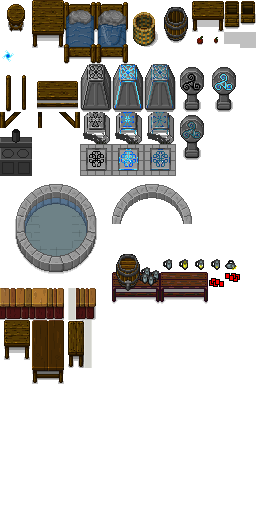
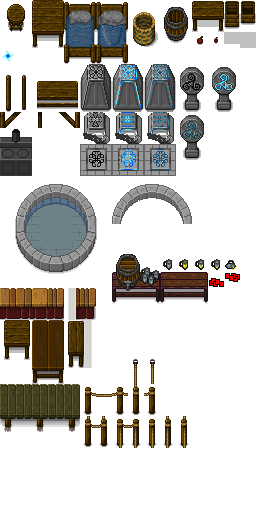
add basic pier

Changed region(s): [[0.0, 0.6875, 0.75, 0.875]]

diff --git a/js/worldGen.js b/js/worldGen.js
@@ -1504,4 +1504,71 @@ class WorldGen {
         },
     };
 
+    static pier = {
+        tag: "pier",
+        columns: 16,
+        rows: 16,
+        offx: 29,
+        offy: 40,
+        autoArea: true,
+        layers: {
+            l1: {
+                bgo: [
+                    "0000","002D","002D","002D","002D","0000","0000","0000","0000","0000","0000","0000","0000","0000","0000","0000",
+                    "0000","0010","0010","0010","0010","002D","002D","0000","0000","0000","0000","0000","0000","0000","0000","0000",
+                    "0000","0010","0010","0010","0010","0010","0010","002D","002D","002D","0000","0000","0000","0000","0000","0000",
+                    "0000","0010","0010","0010","0010","0010","0010","0010","0010","0010","002D","002D","0000","0000","0000","0000",
+                    "0000","0010","0010","0010","0010","0010","0010","0010","0010","0010","0010","0010","0000","0000","0000","0000",
+                    "0000","0010","0010","0010","0010","0010","0010","0010","0010","0010","0010","0010","0000","0000","0000","0000",
+                    "0000","0010","0010","0010","0010","0010","0010","0010","0010","0010","0010","0010","0000","0000","0000","0000",
+                    "0000","0010","0010","0010","0010","0010","0010","0010","0010","0010","0010","0010","0000","0000","0000","0000",
+                    "0000","0010","0010","0010","0010","0010","0010","0010","0010","0010","0010","0010","0000","0000","0000","0000",
+                    "0000","0010","0010","0010","0010","0010","0010","0010","0010","0010","0010","0010","0000","0000","0000","0000",
+                    "0000","0010","0010","0010","0000","0000","0000","0000","0000","0000","0000","0000","0000","0000","0000","0000",
+                    "0000","0010","0010","0010","002E","002F","002E","002F","002E","002G","002E","002H","0000","0000","0000","0000",
+                    "0000","0010","0010","0010","0000","0000","0000","0000","0000","0000","0000","0000","0000","0000","0000","0000",
+                    "0000","0010","0010","0010","0000","0000","0000","0000","0000","0000","0000","0000","0000","0000","0000","0000",
+                    "0000","0000","0000","0000","0000","0000","0000","0000","0000","0000","0000","0000","0000","0000","0000","0000",
+                    "0000","002F","002E","002H","0000","0000","0000","0000","0000","0000","0000","0000","0000","0000","0000","0000",
+                ],
+                fg: [
+                    "0000","0000","0000","0000","0000","0000","0000","0000","0000","0000","0000","0000","0000","0000","0000","0000",
+                    "0000","0000","0000","0000","0000","0000","0000","0000","0000","0000","0000","0000","0000","0000","0000","0000",
+                    "0000","002T","0000","0000","0X5a","0X5b","0X5b","0X5b","0X5b","0X5c","0000","0000","0000","0000","0000","0000",
+                    "0000","0000","0000","0000","0X5d","0X5e","0X5e","0X5e","0X5e","0X5f","0000","0000","0000","0000","0000","0000",
+                    "0000","002U","0000","0000","0X5g","0000","0000","0000","0000","0X5h","0000","002T","0000","0000","0000","0000",
+                    "0000","0000","0000","0000","0X5g","0000","0000","0000","0000","0X5h","0000","0000","0000","0000","0000","0000",
+                    "0000","002U","0000","0000","0o0q","0000","0000","0000","0000","0X5h","0000","002U","0000","0000","0000","0000",
+                    "0000","0000","0000","0000","0X5j","0X5b","0X5b","0X5b","0X5b","0X5i","0000","0000","0000","0000","0000","0000",
+                    "0000","002U","0000","0000","0X5m","0X5e","0X5e","0X5e","0X5e","0X5l","0000","002U","0000","0000","0000","0000",
+                    "0000","0000","0000","0000","002L","0000","002L","0000","002L","0000","002L","0000","0000","0000","0000","0000",
+                    "0000","000G","0000","002R","0000","002M","0000","002M","0000","002M","0000","002Q","0000","0000","0000","0000",
+                    "0000","0000","0000","0000","0000","0000","0000","0000","0000","0000","0000","0000","0000","0000","0000","0000",
+                    "0000","002V","0000","002U","0000","0000","0000","0000","0000","0000","0000","0000","0000","0000","0000","0000",
+                    "0000","0000","002L","0000","0000","0000","0000","0000","0000","0000","0000","0000","0000","0000","0000","0000",
+                    "0000","002P","0000","002Q","0000","0000","0000","0000","0000","0000","0000","0000","0000","0000","0000","0000",
+                    "0000","0000","0000","0000","0000","0000","0000","0000","0000","0000","0000","0000","0000","0000","0000","0000",
+                ],
+                fgo: [
+                    "0000","0000","0000","0000","0000","0000","0000","0000","0000","0000","0000","0000","0000","0000","0000","0000",
+                    "0000","0000","0000","0000","0000","0000","0000","0000","0000","0000","0000","0000","0000","0000","0000","0000",
+                    "0000","0000","0000","0000","0000","0000","0000","0000","0000","0000","0000","0000","0000","0000","0000","0000",
+                    "0000","0000","0000","0000","0000","0000","0000","0000","0000","0000","0000","0000","0000","0000","0000","0000",
+                    "0000","0000","0000","0000","0000","0000","0000","0000","0000","0000","0000","0000","0000","0000","0000","0000",
+                    "0000","0000","0000","0000","0000","0000","0000","0000","0000","0000","0000","0000","0000","0000","0000","0000",
+                    "0000","0000","0000","0000","0000","0000","0000","0000","0000","0000","0000","0000","0000","0000","0000","0000",
+                    "0000","0000","0000","0000","0000","0000","0000","0000","0000","0000","0000","0000","0000","0000","0000","0000",
+                    "0000","0000","0000","0000","0000","0000","0000","0000","0000","0000","0000","0000","0000","0000","0000","0000",
+                    "0000","0000","0000","0000","0000","0000","0000","0000","0000","0000","0000","0000","0000","0000","0000","0000",
+                    "0000","002J","0000","0000","0000","0000","0000","0000","0000","0000","0000","0000","0000","0000","0000","0000",
+                    "0000","0000","0000","0000","0000","0000","0000","0000","0000","0000","0000","0000","0000","0000","0000","0000",
+                    "0000","0000","0000","0000","0000","0000","0000","0000","0000","0000","0000","0000","0000","0000","0000","0000",
+                    "0000","0000","0000","0000","0000","0000","0000","0000","0000","0000","0000","0000","0000","0000","0000","0000",
+                    "0000","0000","0000","0000","0000","0000","0000","0000","0000","0000","0000","0000","0000","0000","0000","0000",
+                    "0000","0000","0000","0000","0000","0000","0000","0000","0000","0000","0000","0000","0000","0000","0000","0000",
+                ],
+            },
+        },
+    };
+
 }

diff --git a/js/sparkAssets.js b/js/sparkAssets.js
@@ -353,6 +353,25 @@ class SparkAssets {
                 Templates.xsprite("bar.sidetable",      4, 20, { width: 16*2, height: 16*3 }),
                 Templates.xsprite("bar.beer.empty",     10, 16, { width: 16*1, height: 16*1 }),
                 Templates.xsprite("bar.beer.full",      11, 16, { width: 16*1, height: 16*1 }),
+                Templates.xvarsprite("dock.t",          [[0,24], [1,24], [2,24], [3,24]]),
+                Templates.xvarsprite("dock.l",          [[1,25], [3,25]], {height: 32}),
+                Templates.xsprite("dock.post.l",        0, 25, { width: 16*1, height: 16*2 }),
+                Templates.xsprite("dock.post.m",        2, 25, { width: 16*1, height: 16*2 }),
+                Templates.xsprite("dock.post.r",        4, 25, { width: 16*1, height: 16*2 }),
+                Templates.xsprite("rope.l",             8, 22, { width: 16*1, height: 16*2 }),
+                Templates.xsprite("rope.r",             9, 22, { width: 16*1, height: 16*2 }),
+                Templates.xsprite("rail.r",             5, 24, { width: 16*1, height: 16*2 }),
+                Templates.xsprite("rope.m",             6, 24, { width: 16*1, height: 16*1 }),
+                Templates.xsprite("rail.lr",            7, 24, { width: 16*1, height: 16*2 }),
+                Templates.xsprite("rail.t",             8, 24, { width: 16*1, height: 16*2 }),
+                Templates.xsprite("rail.l",             9, 24, { width: 16*1, height: 16*2 }),
+                Templates.xsprite("rail.tr",            5, 26, { width: 16*1, height: 16*2 }),
+                Templates.xsprite("rail.tl",            6, 26, { width: 16*1, height: 16*2 }),
+                Templates.xsprite("rail.br",            7, 26, { width: 16*1, height: 16*2 }),
+                Templates.xsprite("rail.bl",            8, 26, { width: 16*1, height: 16*2 }),
+                Templates.xsprite("rail.b",             9, 26, { width: 16*1, height: 16*2 }),
+                Templates.xsprite("rail.tb.l",          10, 26, { width: 16*1, height: 16*2 }),
+                Templates.xsprite("rail.tb.r",          11, 26, { width: 16*1, height: 16*2 }),
             ]},
 
             { src: "img/tower.png", loader: "Sheet", refs: [
@@ -887,6 +906,26 @@ class SparkAssets {
             Templates.tile("02A", "bar.sidetable",      {offx: 8, offy: -16, xcollider: {width: 20, height: 40, offy:-4}}),
             // -- 02B taken
             Templates.tile("02C", "tower.stub",         {offx: 56, offy: -64, xcollider: {}}),
+
+            Templates.tile("02D", "dock.t"),
+            Templates.tile("02E", "dock.l",             {offy: -8}),
+            Templates.tile("02F", "dock.post.l",        {offy: -8}),
+            Templates.tile("02G", "dock.post.m",        {offy: -8}),
+            Templates.tile("02H", "dock.post.r",        {offy: -8}),
+            Templates.tile("02I", "rope.l",             {offy: -8}),
+            Templates.tile("02J", "rope.r",             {offy: -8}),
+            Templates.tile("02K", "rail.r",             {offy: -8}),
+            Templates.tile("02L", "rope.m",             {offy: 0}),
+            Templates.tile("02M", "rail.lr",            {offy: -8}),
+            Templates.tile("02N", "rail.t",             {offy: -8}),
+            Templates.tile("02O", "rail.l",             {offy: -8}),
+            Templates.tile("02P", "rail.tr",            {offy: -8}),
+            Templates.tile("02Q", "rail.tl",            {offy: -8}),
+            Templates.tile("02R", "rail.br",            {offy: -8}),
+            Templates.tile("02S", "rail.bl",            {offy: -8}),
+            Templates.tile("02T", "rail.b",             {offy: -8}),
+            Templates.tile("02U", "rail.tb.l",          {offy: -8}),
+            Templates.tile("02V", "rail.tb.r",          {offy: -8}),
 
 
             Templates.object("o00", "sparkbase", "SparkBase", { 

diff --git a/js/world.js b/js/world.js
@@ -80,6 +80,7 @@ class World {
             WorldGen.tower,
             WorldGen.gardenHouse,
             WorldGen.tinkerHouse,
+            WorldGen.pier,
             /*
             {
                 columns: 8,
